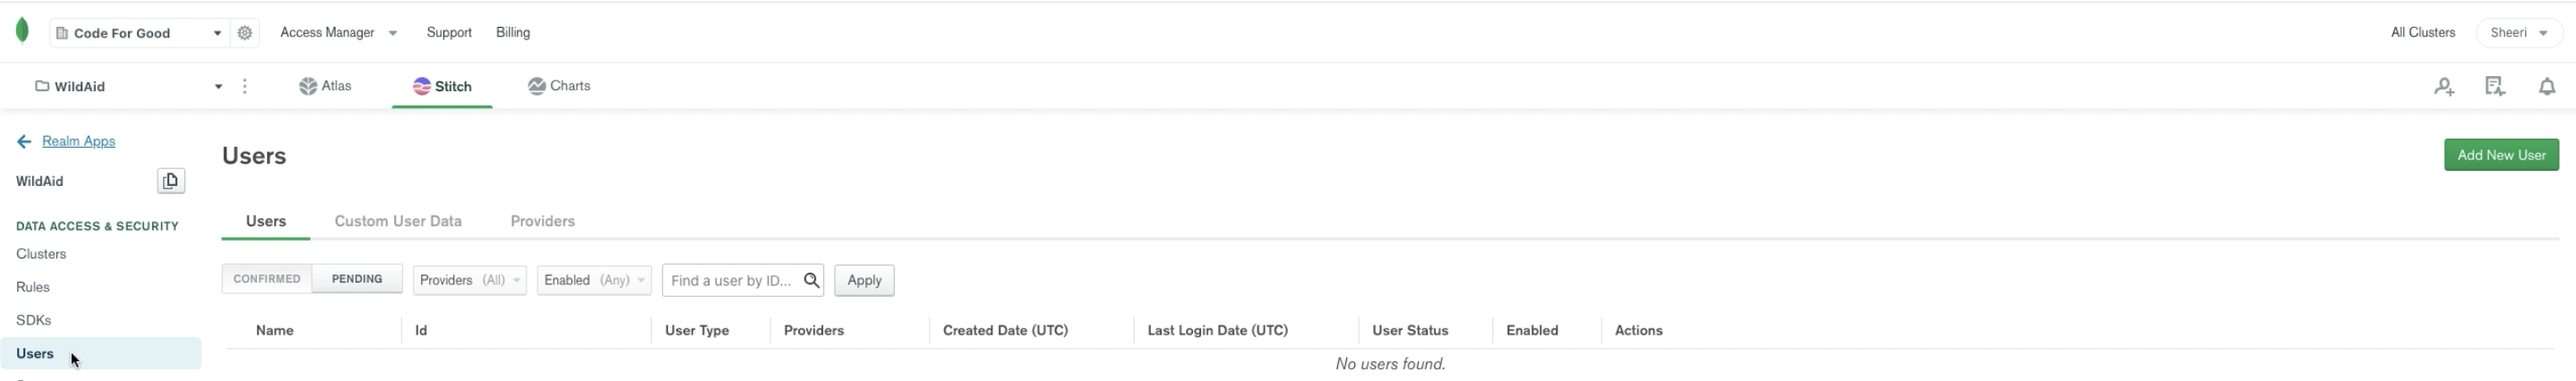
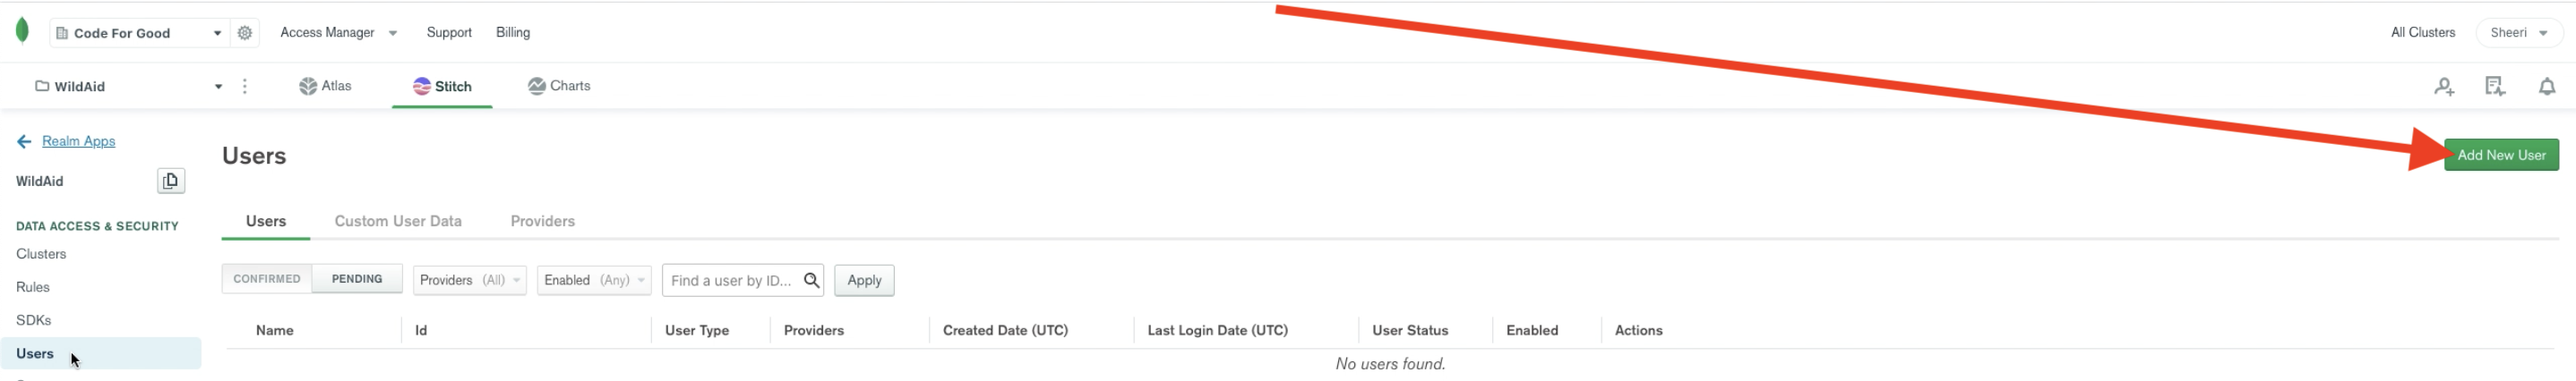
all the edits

Changed region(s): [[0.4951, 0.0, 0.9593, 0.4577]]

diff --git a/index.html b/index.html
@@ -16,4 +16,9 @@ Prerequisites:
 </LI><LI>access to an Xcode installation and Cocoapods to build the iOS app
 </LI><LI>AndroidStudio for building the android app
 </LI></OL>
-	<p><A HREF="/build">Get started!</A>
+	<p><A HREF="/build">Get started!</A><BR><BR>
+If you already have a build, or if you want to just look at the code, the repositories are:<BR>
+iOS - <A HREF="https://github.com/WildAid/o-fish-ios">https://github.com/WildAid/o-fish-ios</A><BR>
+Android - <A HREF="https://github.com/WildAid/o-fish-android">https://github.com/WildAid/o-fish-android</A><BR>
+Web - <A HREF="https://github.com/WildAid/o-fish-web">https://github.com/WildAid/o-fish-web</A><BR>
+Realm code and sample data - <A HREF="https://github.com/WildAid/o-fish-realm">https://github.com/WildAid/o-fish-realm</A><BR>

diff --git a/build/index.html b/build/index.html
@@ -17,8 +17,10 @@ Realm App name:
 Realm App ID:
 API Public Key:
 API Private Key: 
-
-
+App Admin username:
+App Admin password:
+Realm User ID:
+URL:
 
 	<ul class="posts">
 

diff --git a/_posts/2020-06-09-Import-Realm-Code.md b/_posts/2020-06-09-Import-Realm-Code.md
@@ -10,20 +10,19 @@ TAKE OUT HOSTING FROM THE stitch.json
 Now it's time to import the Realm code!
 
 
-      1. In the template, you have a field called "Path to Realm code". Go to that directory - you should be inside a directory called WildAidDemo.<BR><BR>
+1. In the template, you have a field called "Path to Realm code". Go to that directory - you should be inside a directory called WildAidDemo.<BR><BR>
       (if you need to, download and extract <A HREF="/assets/files/WildAidRealm.tar.gz">WildAidRealm.tar.gz</A>.)<BR><BR>
-      1. Edit `stitch.json` change "name" to your "Realm App ID"
-      1. Edit `services/RealmSync/config.json services/mongodb-atlas/config.json`<BR> and change "ClusterName" to your "Atlas Cluster Name"<BR>
-      1. If you are not using AWS, skip this step. If you are, edit the following files and fill in all the relevant details:<BR>
-       `values/awsRegion.json values/destinationEmailAddress.json values/sourceEmailAddress.json`<BR><BR>
-      1. If you are not using AWS, skip this step. If you are, set accessKeyID if using AWS in the file: <BR>
-        `services/AWS/config.json`<BR><BR>
-      1. Do the import, confirm with 'y' when prompted to confirm changes. You will need your Realm App ID:
-        `stitch-cli import --app-id=wildaidapp-xxxxx --strategy=replace --include-dependencies` <BR><BR>
-        cloud-dev users add `--base-url=https://realm-dev.mongodb.com`<BR><BR>
-
-      1. Verify the code got imported by going to the Realm App and clicking "Functions" on the left-hand side. You should see several functions, as below:
-        <img src="/assets/images/Functions.png" style="border:1px solid black" width="100%"><BR><BR>
+1. Edit `stitch.json` change "name" to your "Realm App ID"<BR><BR>
+1. Edit `services/RealmSync/config.json services/mongodb-atlas/config.json`<BR> and change the value of "ClusterName" to your "Atlas Cluster Name"<BR><BR>
+1. If you are not using AWS, skip this step. If you are, edit the following files and fill in all the relevant details:<BR>
+ `values/awsRegion.json values/destinationEmailAddress.json values/sourceEmailAddress.json`<BR><BR>
+1. If you are not using AWS, skip this step. If you are, set accessKeyID if using AWS in the file: <BR>
+  `services/AWS/config.json`<BR><BR>
+1. Do the import, confirm with 'y' when prompted to confirm changes. You will need your Realm App ID:<BR>
+  `stitch-cli import --app-id=wildaidapp-xxxxx --strategy=replace --include-dependencies` <BR><BR>
+  cloud-dev users add `--base-url=https://realm-dev.mongodb.com`<BR><BR>
+1. Verify the code got imported by going to the Realm App and clicking "Functions" on the left-hand side. You should see several functions, as below:
+  <img src="/assets/images/Functions.png" style="border:1px solid black" width="100%"><BR><BR>
 
 
 You have successfully set up a Realm serverless application! You may get emails like "A Database Trigger has been Suspended", do not worry about that for now. It's time to connect Realm to your data by creating a user!

diff --git a/_posts/2020-06-09-Data-Import.md b/_posts/2020-06-09-Data-Import.md
@@ -8,9 +8,11 @@ categories: build
 Now that you've created your Atlas database, import the sample dataset using the `mongorestore` commandline utility:
 
 1. Get the sample data
-   1. git clone https://github.com/WildAid/o-fish-realm.git<BR>
-   For now, download and extract <A HREF="/assets/files/CodeForGoodDataSet.tar.gz">CodeForGoodDataSet.tar.gz</A>.
-   1. `cd o-fish-realm`
+   1.  Get the code from <A HREF="https://github.com/WildAid/o-fish-realm">https://github.com/WildAid/o-fish-realm</A><BR>
+   `git clone https://github.com/WildAid/o-fish-realm.git`<BR><BR>
+   For now, download and extract <A HREF="/assets/files/CodeForGoodDataSet.tar.gz">CodeForGoodDataSet.tar.gz</A>.<BR><BR>
+   1. Go into the o-fish-realm directory:<BR>
+   `cd o-fish-realm`<BR><BR>
    1. Note the path to the directory CodeForGoodbackup, which contains a directory called "wildaid". Put it in the "Path to sample data" section of the template.<BR><BR>
    1. Note the path to the directory WildAidDemo,and put it in the "Path to Realm code" section of the template.<BR><BR>
 
@@ -21,11 +23,11 @@ Now that you've created your Atlas database, import the sample dataset using the
 <img src="/assets/images/Click_Already_Have.png" style="border:1px solid black" width="100%"><BR><BR>
    1. Copy the connection string
 <img src="/assets/images/Copy_Connection_String.png" style="border:1px solid black" width="100%"><BR><BR>
-   1. Click "Close"
-   1. Paste the connection string into the "Atlas Cluster connection string" in your template.
+   1. Click "Close"<BR><BR>
+   1. Paste the connection string into the "Atlas Cluster connection string" in your template.<BR><BR>
 
-1. In a terminal window, use the mongorestore utility to import the data you got in the first step. use the `mongorestore` utility and the "Path to sample data", and the "Atlas Cluster connection string". Modify the connection string - just after `mongodb+srv://` you should put in the "Atlas Cluster Admin username" from the template, followed by @ and then the rest of the mongodb+srv link - so it looks something like this:
-   1. `mongorestore --drop --uri "mongodb+srv://admin@oceanwatchdata-xxxxx.mongodb.net/test" /PATH/TO/CodeForGoodbackup`<BR>
+1. In a terminal window, use the mongorestore utility to import the data you got in the first step. use the `mongorestore` utility and the "Path to sample data", and the "Atlas Cluster connection string". Modify the connection string - just after `mongodb+srv://` you should put in the "Atlas Cluster Admin username" from the template, followed by @ and then the rest of the mongodb+srv link - so it looks something like this:<BR>
+   - `mongorestore --drop --uri "mongodb+srv://admin@oceanwatchdata-xxxxx.mongodb.net/test" /PATH/TO/CodeForGoodbackup`<BR>
    When it is successful, you will see a message like:<BR>
    `17542 document(s) restored successfully. 0 document(s) failed to restore.`<BR><BR>
 

diff --git a/_posts/2020-06-09-Connect-Realm-With-Data.md b/_posts/2020-06-09-Connect-Realm-With-Data.md
@@ -1,0 +1,37 @@
+---
+layout: post
+title: "7. Connect Realm With Data"
+date: 2020-05-09 07:00:00 -0400
+categories: build
+---
+
+You have imported your Realm app!  Now, let's create a Realm user...
+
+1. Add a Realm user - this will be the global administrative user who logs into your application.
+      1. In the Realm UI, click on Users under Data Access & Security, and then click on the green "Add New User" button.
+        <img src="/assets/images/Add_Realm_User.png" style="border:1px solid black" width="100%"><BR><BR>
+      1. Add an email address as the username, and add a password. Write these down in the template under "App Admin username" and "App Admin password". As the global administrative login, you can use your email or whatever login you want for the global administrative user. The email is only used if you forget your password:
+        <img src="/assets/images/Realm_User_Details.png" style="border:1px solid black" width="100%"><BR><BR>
+      1. Copy the Realm User ID and paste in the template under "Realm User ID"
+        <img src="/assets/images/Copy_Realm_User_ID.png" style="border:1px solid black" width="100%"><BR><BR>
+1. <A HREF="https://docs.mongodb.com/manual/tutorial/insert-documents/">Insert a new document</A> to the wildaid.User collection (using Compass, mongo shell or code studio integration). Set the email and RealmUserID with the "App Admin user" and "Realm User ID", and set the agency and first and last names as appropriate. Here's an example:<BR>
+`use wildaid;`<BR>
+`db.User.insertOne({`<BR>
+`"email":"sheeri.cabral@mongodb.com",`<BR>
+`"RealmUserID": {"$oid":"xxxxxxxxxxxxxxxxxxxxx"},`<BR>
+`"agency": {"name":"MongoDB", "admin":false},`<BR>
+`"global": {"admin":true},`<BR>
+`"name": {"first":"Sheeri", "last":"Cabral"}`<BR>
+`})`<BR>
+and here's a template with empty fields for copy/pasting:<BR>
+`use wildaid;`<BR>
+`db.User.insertOne({`<BR>
+`"email":"",`<BR>
+`"RealmUserID": {"$oid":""},`<BR>
+`"agency": {"name":"", "admin":false},`<BR>
+`"global": {"admin":true},`<BR>
+`"name": {"first":"", "last":""}`<BR>
+`})`
+
+
+Fantastic!

diff --git a/_posts/2020-06-09-Dev-Mode-Fulltext.md b/_posts/2020-06-09-Dev-Mode-Fulltext.md
@@ -1,26 +1,22 @@
 ---
 layout: post
-title: "Dev Mode Fulltext"
-date: 2020-05-09 16:00:00 -0400
+title: "8. Dev Mode Fulltext"
+date: 2020-05-09 08:00:00 -0400
 categories: build
 ---
 
-Recap:<BR>
-Project Name: WildAid<BR>
-Cluster name: OceanWatchData<BR><BR>
+Now it's time to put your Realm app into Development mode so deploying the web app is easier, and set up a fulltext index with Atlas Search:
 
-Now it's time to put your Realm app into Development mode, and set up a fulltext index with Atlas Search:
-
-1. Enable Realm Sync "Development Mode" - Click Sync on left-hand menu, then “Development Mode” tab.  
+1. In the Realm UI, enable Realm Sync "Development Mode" - Click Sync on left-hand menu, then “Development Mode” tab.  
         <img src="/assets/images/Sync_Dev_Mode.png" style="border:1px solid black" width="100%"><BR><BR>
 1. Fill in the appropriate information - Select the cluster name with RealmSync modifier, the database is "wildaid", the partition key is "agency" and if prompted the field type is "string". Click "Turn Dev Mode On":
         <img src="/assets/images/Dev_Mode_On.png" style="border:1px solid black" width="100%"><BR><BR>
 
-1. Click "Review and Deploy" in the blue bar on the top (Sheeri get this image):
+1. Click "Review and Deploy" in the blue bar on the top, and then deploy the changes:
         <img src="/assets/images/Review_Deploy.png" style="border:1px solid black" width="100%"><BR><BR>
 
 1.  Add fulltext search index - go to the Atlas UI for the cluster and click on the "Collections" tab. Click on the "BoardingReports" collection.
-        <img src="/assets/images/Search_Index.png" style="border:1px solid black" width="100%"><BR><BR>
+        <img src="/assets/images/BR_Collection.png" style="border:1px solid black" width="100%"><BR><BR>
 1. Click on the "Search" tab, and then "Create Search Index":
         <img src="/assets/images/Search_Index.png" style="border:1px solid black" width="100%"><BR><BR>
     1. Click "Create Index" to create the default fulltext search index, mapping every field.

diff --git a/_posts/2020-06-09-Build-Web-App.md b/_posts/2020-06-09-Build-Web-App.md
@@ -1,0 +1,36 @@
+---
+layout: post
+title: "9. Build Web App"
+date: 2020-05-09 09:00:00 -0400
+categories: build
+---
+
+Build the web app:
+1. Get the code<BR>
+   1.  Get the code from <A HREF="https://github.com/WildAid/o-fish-web">https://github.com/WildAid/o-fish-web</A><BR>
+   `git clone https://github.com/WildAid/o-fish-web.git`<BR><BR>
+   for now, <A HREF="/assets/files/ocean-watch-web.tar.gz">click here</A>
+1. Go into the o-fish-web directory
+   cd `o-fish-web`
+1. edit `src/.env/config.js`:
+   appName is your Realm App Name
+   stitchAppId is the Realm App ID
+   stitchBaseUrl should be https://realm.mongodb.com
+1. On commandline, run:
+   `npm run build`
+1. In the Stitch UI in your browser, click on "Hosting" on the left-hand side under "MANAGE"<BR>
+<img src="/assets/images/Hosting.png" style="border:1px solid black" width="70%"><BR><BR>
+1. Enable hosting by clicking the big green button:<BR>
+<img src="/assets/images/Enable_Hosting.png" style="border:1px solid black" width="50%"><BR><BR>
+1. You will be sent back to this page:<BR>
+<img src="/assets/images/Drag_Files_Here.png" style="border:1px solid black" width="100%"><BR><BR>
+1. Drag and drop the contents of the build folder onto the Stitch window. There should be about 10 files and folders in the directory when you are done. It is OK to overwrite existing files.<BR>
+<img src="/assets/images/Files_Dragged.png" style="border:1px solid black" width="75%"><BR><BR>
+1. Run Actions/Flush CDN Cache, click "Flush Cache" when prompted.<BR>
+<img src="/assets/images/Flushed_Cache.png" style="border:1px solid black" width="75%"><BR><BR>
+1. Make note of the URL on the Hosting page, this is your website! Paste it to the "URL" field in the template<BR>
+<img src="/assets/images/URL.png" style="border:1px solid black" width="75%"><BR><BR>
+
+Proceed to the next step when the blue bar no longer appear saying "Your site is in the process of being created, which may take up to 15 minutes."
+
+

diff --git a/_posts/2020-06-09-Test-Web-App.md b/_posts/2020-06-09-Test-Web-App.md
@@ -1,0 +1,35 @@
+---
+layout: post
+title: "10. Test Web App"
+date: 2020-05-09 10:00:00 -0400
+categories: build
+---
+
+1. Go to your website with the URL from the template<BR>
+1. Login with your "App Admin username" and "App Admin password"<BR>
+1. If you can’t login, check:<BR>
+ Fields in src/.env/config.js<BR>
+ The Realm user was created in the Realm<BR>
+ The Realm user is in a document the wildaid.User collection and the Realm ID is correct<BR>
+1. Charts won’t work, this is expected<BR>
+<img src="/assets/images/Charts_Not_Working.png" style="border:1px solid black" width="100%"><BR><BR>
+1. Search for “Mia” and you should see highlighting, click "See all results for mia"<BR>
+<img src="/assets/images/Search_Mia.png" style="border:1px solid black" width="100%"><BR><BR>
+1. Click "see all results" for "Boardings"
+<img src="/assets/images/Search_Results.png" style="border:1px solid black" width="100%"><BR><BR>
+1. You should see a records from the sample data<BR>
+ Click "Filter" and then "Red" under "Risk":
+<img src="/assets/images/Filter.png" style="border:1px solid black" width="100%"><BR><BR>
+1. You should see only records with red risk levels:
+<img src="/assets/images/RedBoardings.png" style="border:1px solid black" width="100%"><BR><BR>
+
+Huzzah! Your web application connects to your Realm data!
+
+From here, you can:<BR><BR>
+
+Build the Android app<BR><BR>
+Build the iOS app<BR><BR>
+Look into the functions and triggers<BR><BR>
+Put Charts into the web interface<BR><BR>
+
+

diff --git a/_posts/2020-06-09-Setup-stitch-cli.md b/_posts/2020-06-09-Setup-stitch-cli.md
@@ -8,7 +8,7 @@ categories: build
 1. stitch-cli setup
    1. Install stitch-cli - follow the instructions for manual install or `npm` install at <A HREF="https://docs.mongodb.com/stitch/deploy/stitch-cli-reference/" _target="blank">https://docs.mongodb.com/stitch/deploy/stitch-cli-reference</A><BR><BR>
    1. Connect your commandline with Realm using `stitch-cli login` and the values from the template for "API Public Key" and "API Private Key":<BR>
-      `stitch-cli login --api-key="API_Public_Key" --private-api-key="API_Private_Key"`<BR><BR>
+   - `stitch-cli login --api-key="API_Public_Key" --private-api-key="API_Private_Key"`<BR><BR>
       cloud-dev users add `--base-url=https://realm-dev.mongodb.com`<BR><BR>
       It has worked when the output is <BR>`you have successfully logged in as PUBLIC_API_KEY`<BR><BR>
 

diff --git a/_posts/2020-06-09-Atlas-Database.md b/_posts/2020-06-09-Atlas-Database.md
@@ -5,9 +5,6 @@ date: 2020-05-09 00:00:00 -0400
 categories: build
 ---
 
-Make a template and tell ppl to put things in and take things out
-
-
 The first step is to set up the Atlas database - this is the foundation data layer that serve data to the mobile apps, charts, and web apps.
 
 1. Login to <A HREF="https://cloud.mongodb.com" target="_blank">cloud.mongodb.com</A> - create a free login if needed.<BR><BR>
